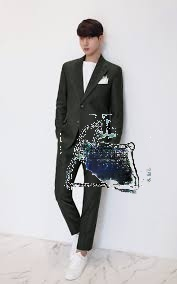
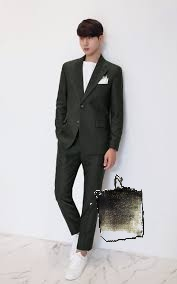
sketchshop

diff --git a/Project/sketchshop.py b/Project/sketchshop.py
@@ -34,7 +34,7 @@ def draw_line(event, x, y, flags, param):
                 cv2.rectangle(img,(ix,iy),(x,y),(0,255,0),-1)
             else:
                 cv2.line(img, (ix, iy), (x, y),
-                         color=(0, 0, 0), thickness=3)
+                         color=(0, 0, 0), thickness=1)
                 ix, iy = x, y
                 mouse_travel[0][-1].append(ix)
                 mouse_travel[1][-1].append(iy)
@@ -121,7 +121,7 @@ def main():
     for i in range(len(x_list)):
         for j in range(1, len(x_list[i])):
             cv2.line(sketch, (x_list[i][j-1]-int(x_min) + int(x_range*0.1), y_list[i][j-1]-int(y_min) + int(y_range*0.1)),
-                     (x_list[i][j]-int(x_min) + int(x_range*0.1), y_list[i][j]-int(y_min) + int(y_range*0.1)), color=(0, 0, 0), thickness=3)
+                     (x_list[i][j]-int(x_min) + int(x_range*0.1), y_list[i][j]-int(y_min) + int(y_range*0.1)), color=(0, 0, 0), thickness=1)
 
     sketch = cv2.resize(sketch, (256, 256))
 

diff --git a/Project/sketchshop_GUI.py b/Project/sketchshop_GUI.py
@@ -7,7 +7,7 @@ from tkinter import messagebox
 # from class filedialog
 from tkinter.filedialog import askopenfilename
 import os
-import keyboard
+# import keyboard
 
 class sketchGUI():
     def __init__(self):

diff --git a/Project/README.md b/Project/README.md
@@ -1,10 +1,15 @@
 # SketchShop
-Final project for sketch recognition.
+Final project for Sketch Recognition.
 
-## Motivation
+### Motivation
 Photo editing exists everywhere in our daily life from the advertisements to robust conference papers. We will design a website system called SketchShop which allows users the add some vivid icons on her photos by just few simple sketches. We adopt GAN to do style transfer on the sketch from users and mask the output on the photos uploaded by users.
 
-## Usage
+### Requirement
+* opencv
+* tkinter
+* numpy
+
+### Usage
 In the terminal,run
 ```
 python sketchshop.py -i input_path -o output_path
@@ -16,7 +21,7 @@ python sketchshop_GUI.py
 ```
 to open the GUI for this program
 
-## Citation
+### Citation
 pix2pix cited from 
 ```
 @inproceedings{CycleGAN2017,
